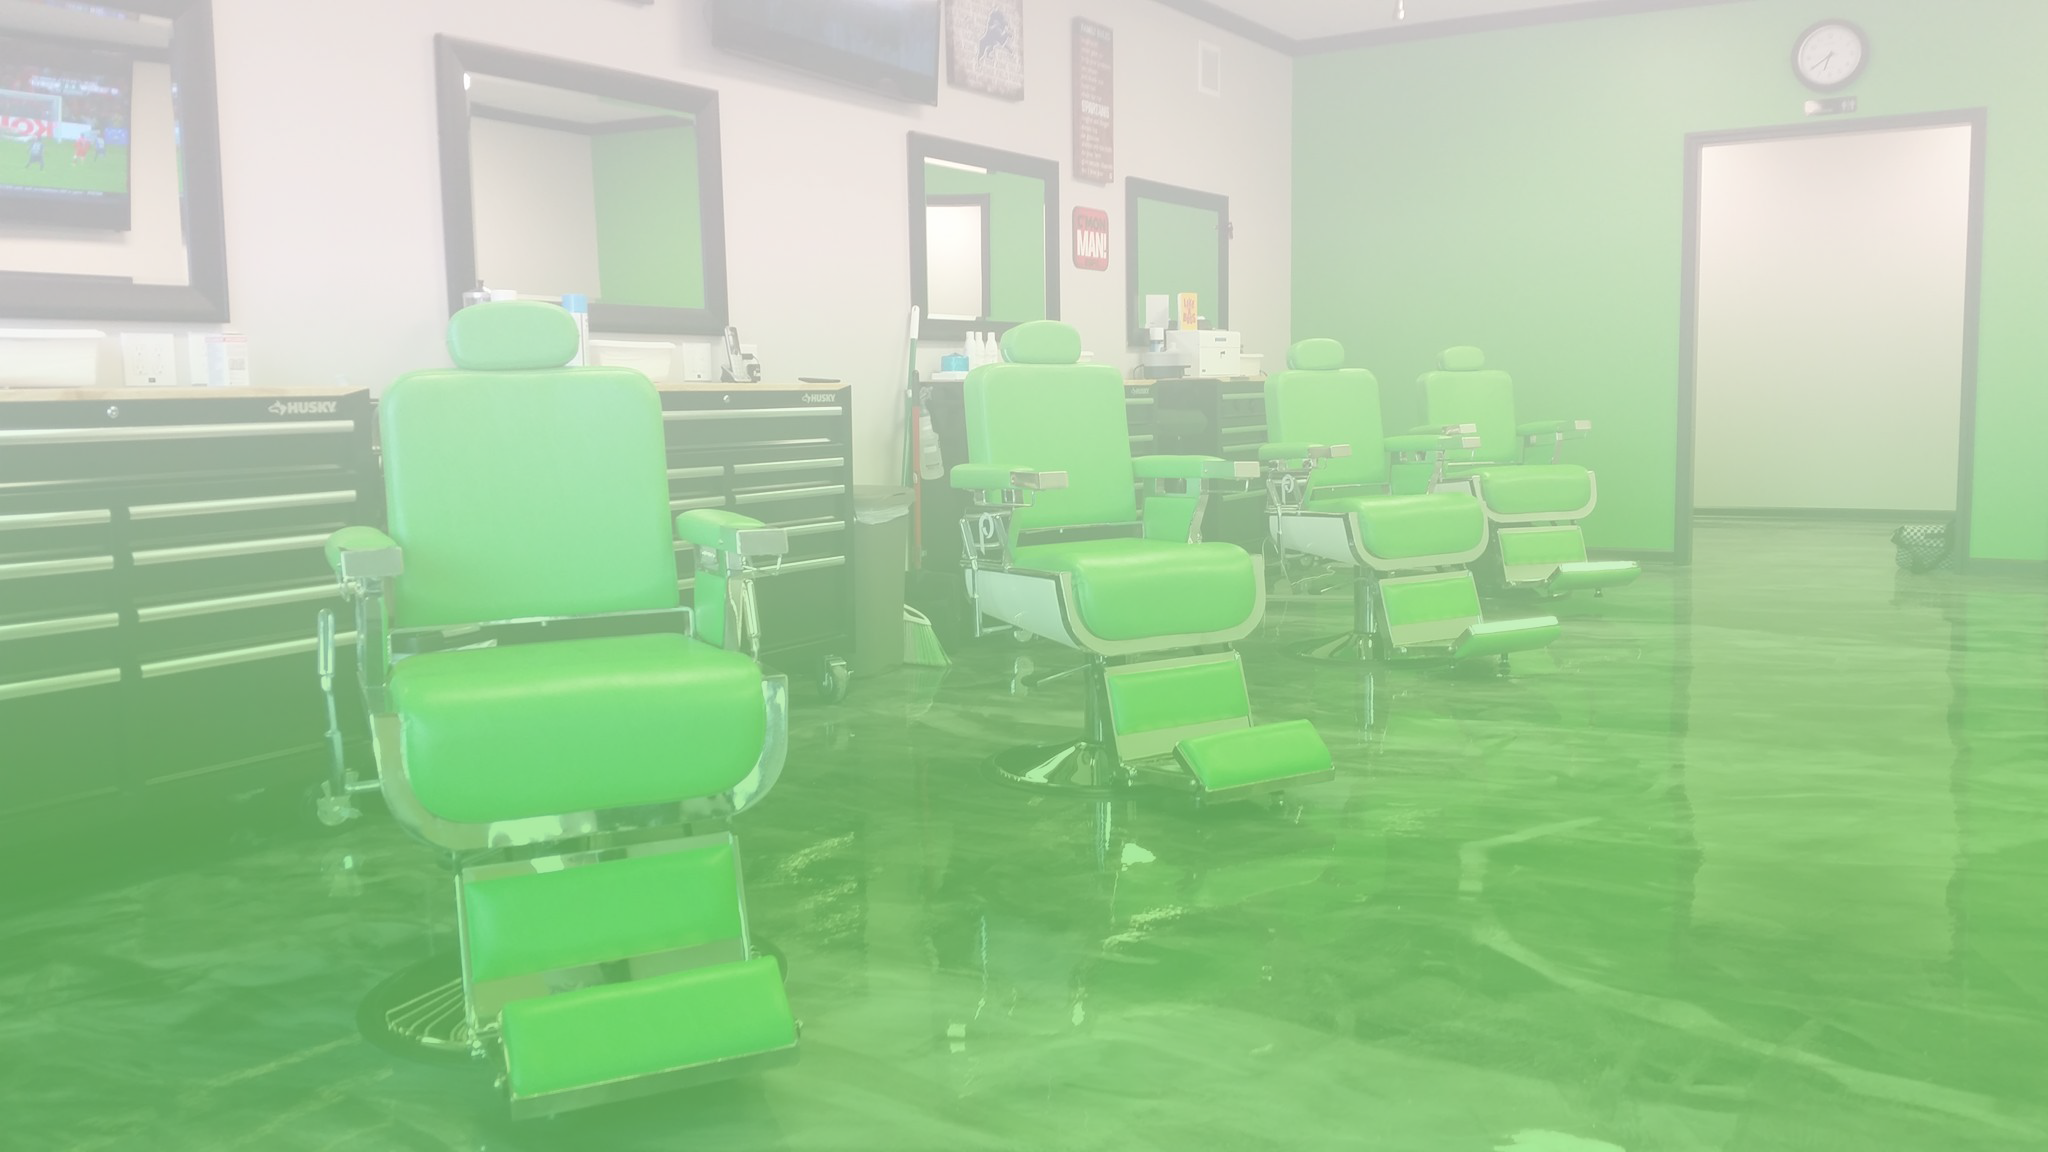
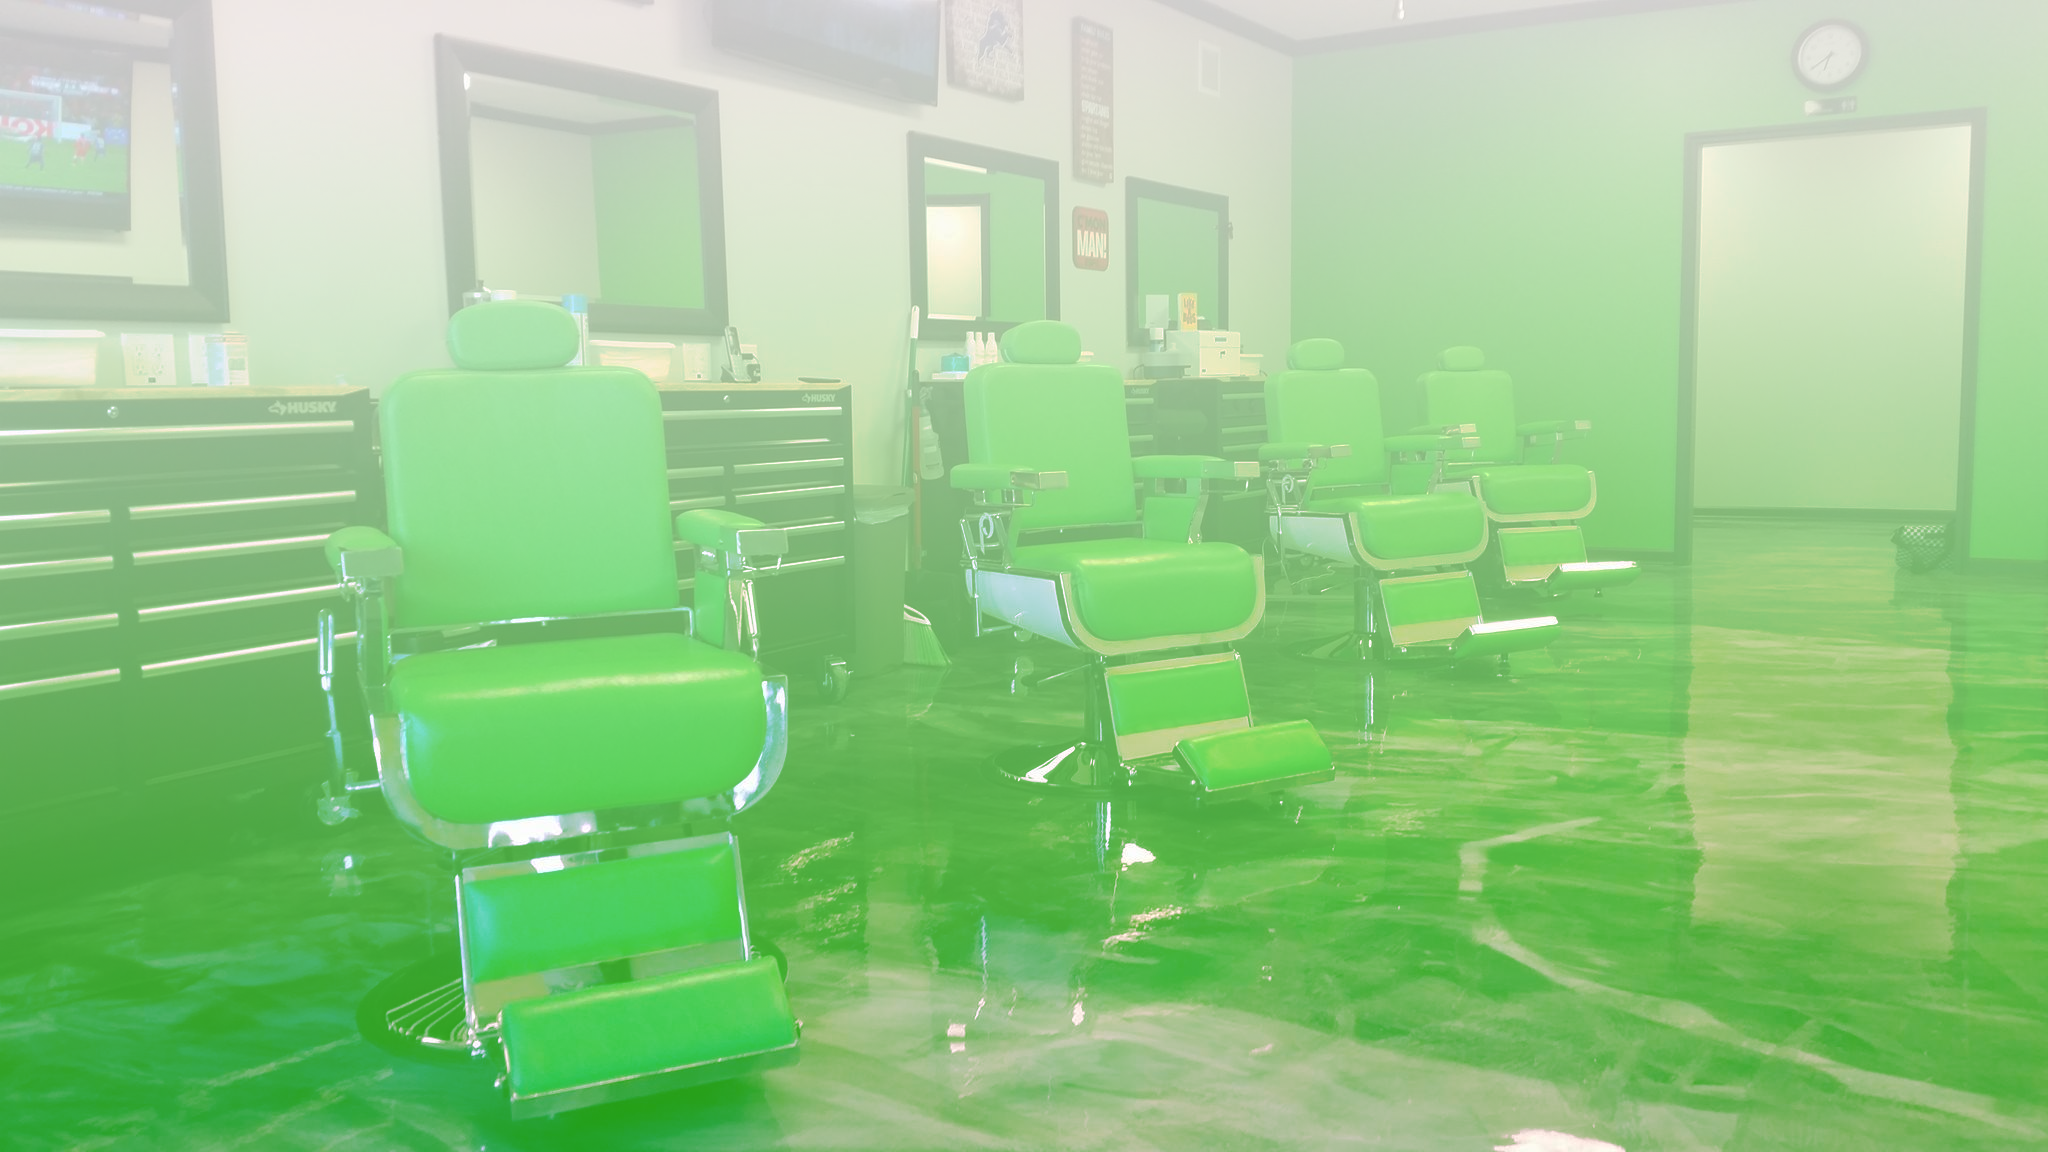
Changed BG and Styles

diff --git a/style.css b/style.css
@@ -332,7 +332,8 @@ h1 {
 .moneyfade .money {
   font-family: 'Playfair Display', serif;
   text-transform: none;
-  font-size: 1.4em;
+  font-size: 1.8em;
+  text-shadow: 0 1px 0 #ccc, 0 2px 0 #c4ccc5, 0 3px 0 #bbb, 0 4px 0 #b9b9b9, 0 5px 0 #aaa, 0 6px 1px rgba(0,0,0,.1), 0 0 5px rgba(0,0,0,.1), 0 1px 3px rgba(0,0,0,.3), 0 3px 5px rgba(0,0,0,.2), 0 5px 10px rgba(0,0,0,.25), 0 10px 10px rgba(0,0,0,.2), 0 20px 20px rgba(0,0,0,.15);
 }
 
 /* Map Area */
